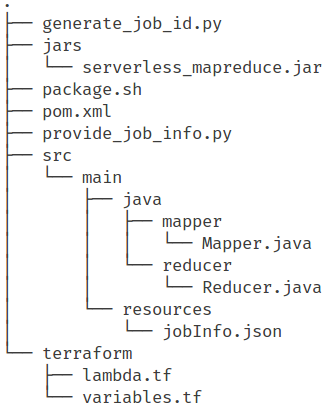
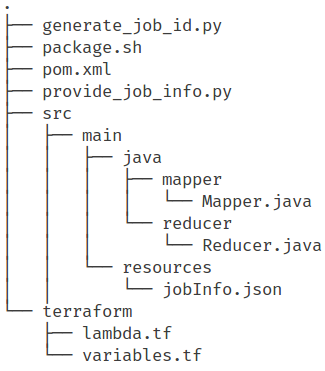
Update README

Changed region(s): [[0.0, 0.0, 1.0, 1.0]]

diff --git a/README.md b/README.md
@@ -58,25 +58,12 @@ The structure is as follows :
     <dependencies>
     ...
         <dependency>
-            <groupId>fr.d2si</groupId>
+            <groupId>fr.d2-si</groupId>
             <artifactId>serverless_mapreduce</artifactId>
             <version>0.0.1</version>
         </dependency>
     ...
     </dependencies>
-```
-
-The dependency should ideally be in the maven repository, but for now we need it to be in our local repo.
-This command should be able to do just that:
-
-```commandline
-mvn -e org.apache.maven.plugins:maven-install-plugin:2.3.1:install-file
-    -Dfile=example-project/jars/serverless_mapreduce.jar
-    -DgroupId=fr.d2si
-    -DartifactId=serverless_mapreduce
-    -Dversion=0.0.1
-    -Dpackaging=jar
-    -DlocalRepositoryPath=~/.m2/repository/
 ```
 
 You may add any dependency needed in subsequent steps.
